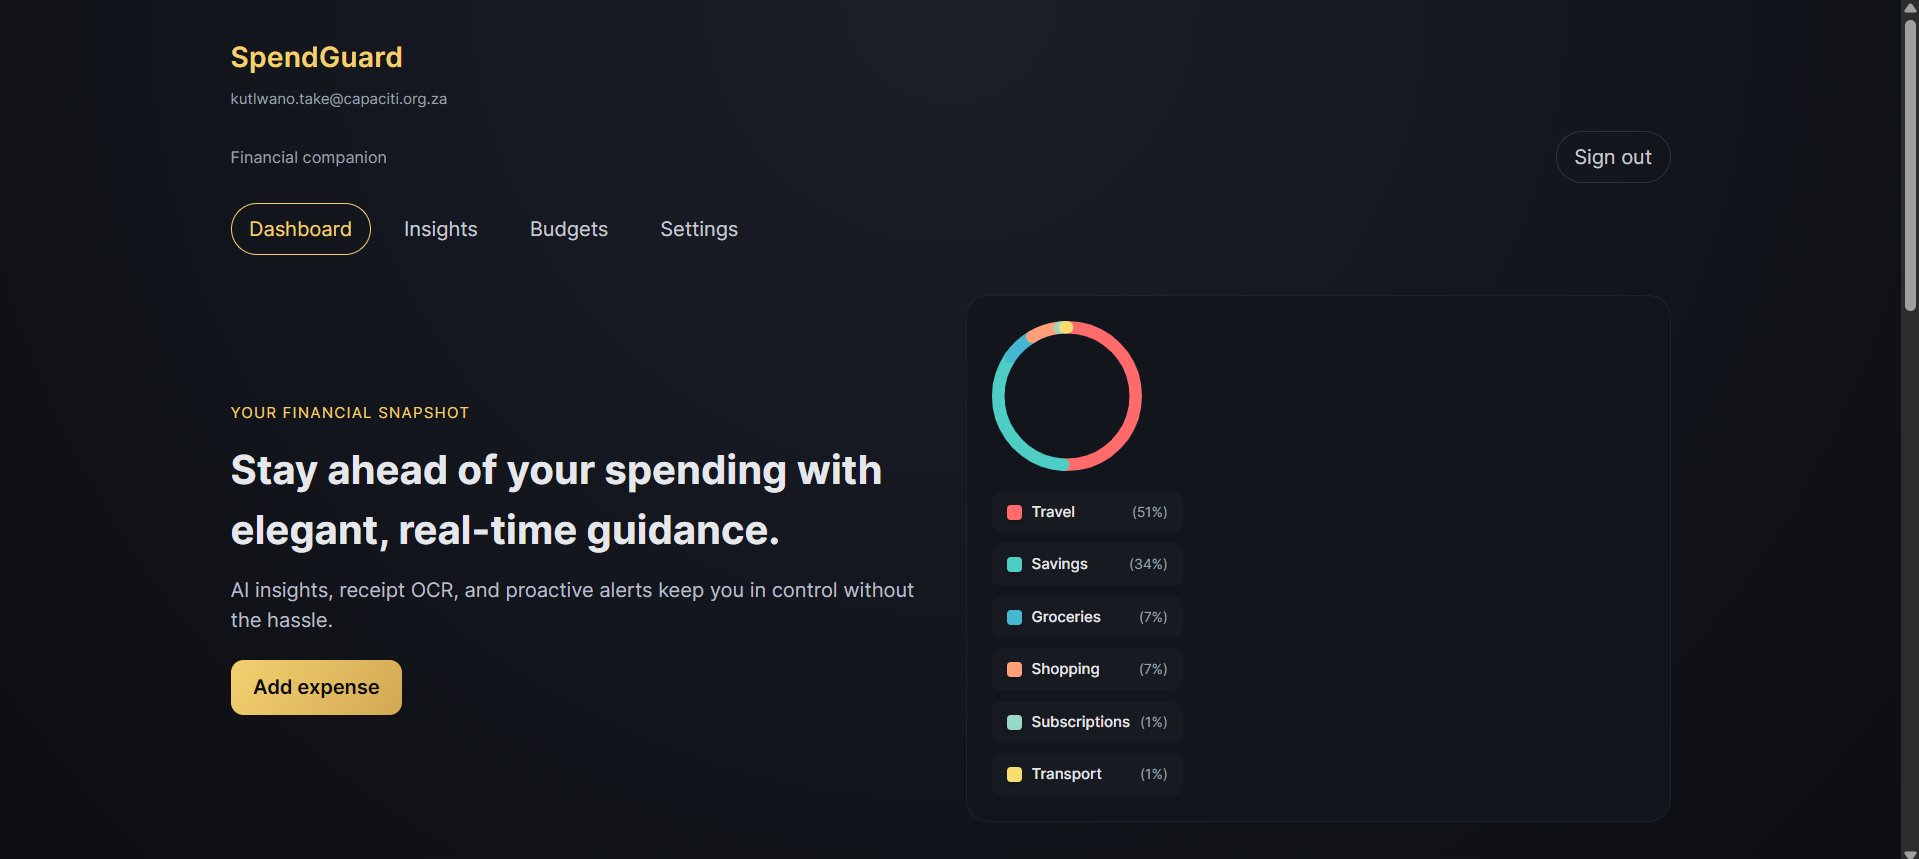
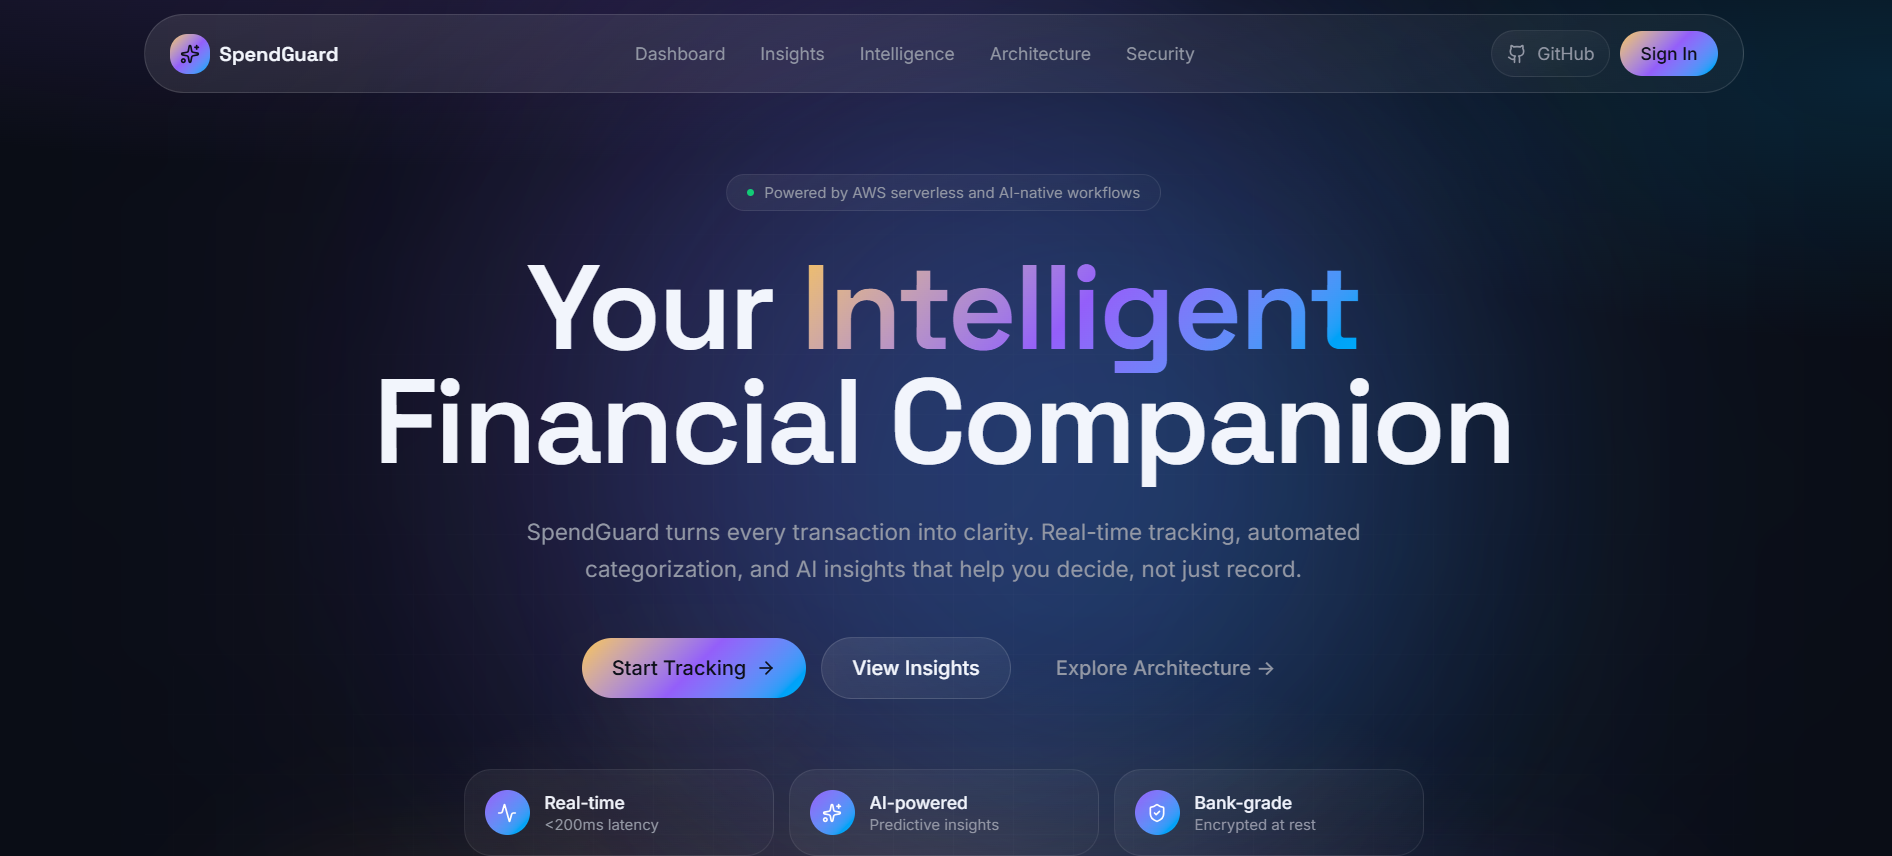
Update portfolio and spendguard screenshot

diff --git a/index.html b/index.html
@@ -104,8 +104,9 @@
             <a class="button button-glass" href="#contact">Get in touch</a>
             <a
               class="button button-text"
-              href="Kutlwano_Take_CV.pdf"
-              download="Kutlwano_Take_CV.pdf"
+              href="Kutlwano_Take_CV_2025.pdf.pdf"
+              target="_blank"
+              rel="noreferrer"
             >
               Download CV
             </a>
@@ -143,29 +144,28 @@
               <div class="project-accent accent-emerald" aria-hidden="true"></div>
               <img
                 src="images/africlimate-updated.png"
-                alt="AfriClimate Analytics Platform dashboard and architecture preview"
+                alt="AfriClimate Analytics Lake dashboard screenshot"
                 loading="lazy"
               />
             </div>
             <div class="project-copy">
               <p class="project-index">01 / Climate Intelligence Platform</p>
-              <h3>AfriClimate Analytics Platform</h3>
+              <h3>AfriClimate Analytics Lake</h3>
               <p>
-                AI-powered climate intelligence platform for Africa. It turns
-                CHIRPS rainfall observations into operational insight for
-                governments, NGOs, and researchers through AWS-native data
-                engineering, a serverless climate pipeline, and an interactive
-                decision dashboard deployed on Vercel.
+                Production-ready climate analytics for Southern Africa. A
+                serverless AWS pipeline ingests CHIRPS data into S3, processes it
+                with Lambda, catalogs it in Glue, and serves a five-module Dash
+                application for drought, water, climate risk, community impact,
+                and carbon insights.
               </p>
               <div class="tag-list">
                 <span>Python</span>
                 <span>Dash</span>
-                <span>CHIRPS</span>
                 <span>AWS Lambda</span>
                 <span>S3</span>
                 <span>Glue</span>
                 <span>Athena</span>
-                <span>Vercel</span>
+                <span>Plotly</span>
               </div>
               <div class="project-actions">
                 <a
@@ -190,10 +190,10 @@
 
           <article class="project-card glass border-gradient" data-reveal>
             <div class="project-media">
-              <div class="project-accent accent-amber" aria-hidden="true"></div>
+              <div class="project-accent accent-violet" aria-hidden="true"></div>
               <img
                 src="images/tshidi-ai-invoice-tool.png"
-                alt="TshidiAI business platform landing page screenshot"
+                alt="tshidi-ai-invoice-tool screenshot"
                 loading="lazy"
               />
             </div>
@@ -201,10 +201,11 @@
               <p class="project-index">02 / AI Service Business Platform</p>
               <h3>TshidiAI</h3>
               <p>
-                AI-powered workspace for South African service businesses. It
-                helps teams onboard clients, send quotes and proposals, sign
-                agreements, collect payments, and manage revenue from one
-                ZAR-first platform built for fast billing and growth.
+                AI-powered workspace for South African service
+                businesses. It helps teams onboard clients, send quotes
+                and proposals, sign agreements, collect payments, and
+                manage revenue from one ZAR-first platform built for fast
+                billing and growth.
               </p>
               <div class="tag-list">
                 <span>AI Workflows</span>
@@ -238,10 +239,10 @@
 
           <article class="project-card glass border-gradient" data-reveal>
             <div class="project-media">
-              <div class="project-accent accent-violet" aria-hidden="true"></div>
+              <div class="project-accent accent-amber" aria-hidden="true"></div>
               <img
                 src="images/spendguard-screenshot.png"
-                alt="SpendGuard dashboard screenshot"
+                alt="spendguard-screenshot"
                 loading="lazy"
               />
             </div>
@@ -249,10 +250,11 @@
               <p class="project-index">03 / Smart Expense and Budget Tracker</p>
               <h3>SpendGuard</h3>
               <p>
-                Full-stack serverless expense tracker with category budgets,
-                overspend alerts, receipt OCR, and AI-powered insights. It brings
-                together secure Cognito authentication, cloud workflows, and a
-                polished, product-grade user experience.
+                Full-stack serverless expense tracker with category
+                budgets, overspend alerts, receipt OCR, and AI-powered
+                 insights. It brings together secure Cognito
+                  authentication, cloud workflows, and a polished,
+                   product-grade user experience.
               </p>
               <div class="tag-list">
                 <span>React</span>
@@ -267,7 +269,7 @@
               <div class="project-actions">
                 <a
                   class="button button-solid"
-                  href="https://live.d23ix241s4yuzf.amplifyapp.com/"
+                  href="https://spendguard-zeta.vercel.app/"
                   target="_blank"
                   rel="noreferrer"
                 >
